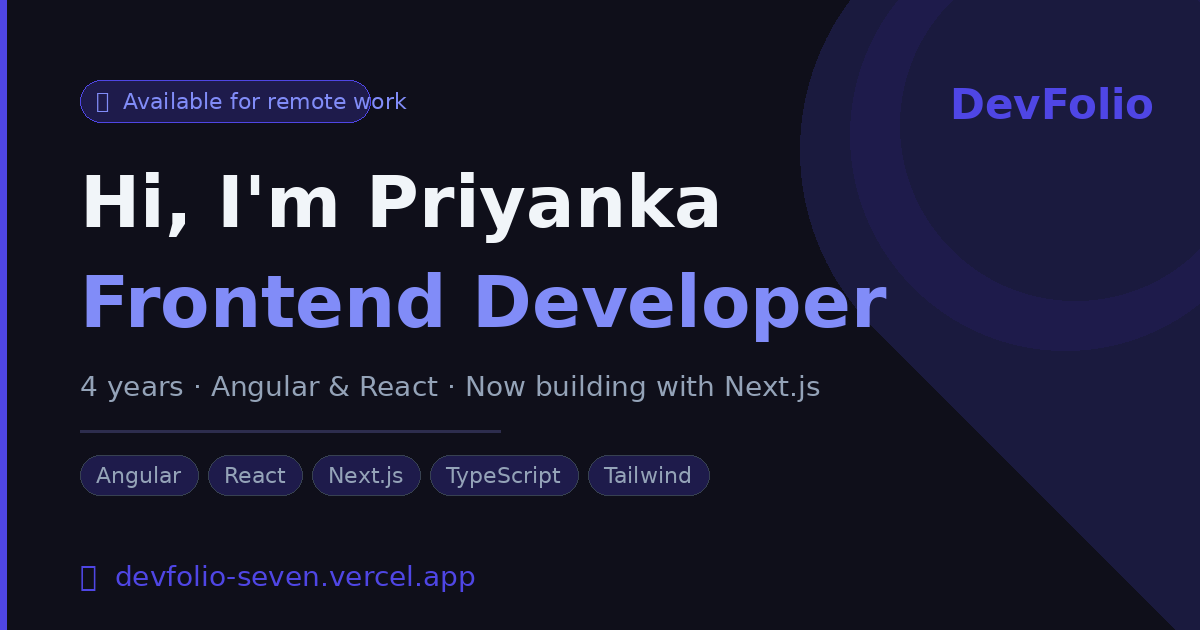
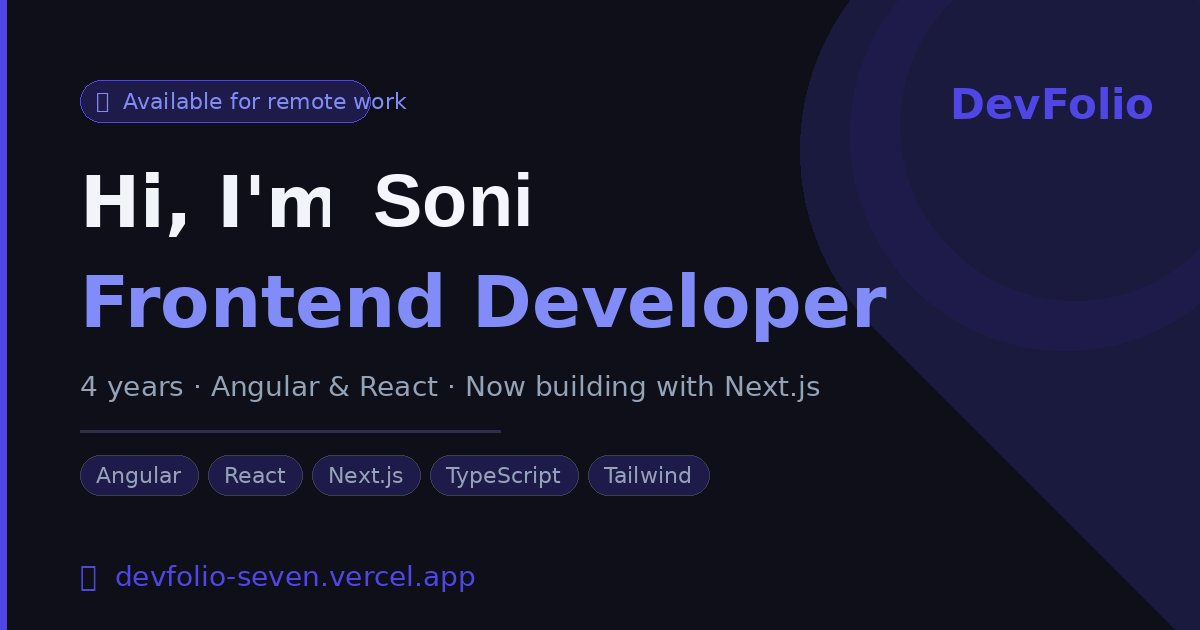
update info

diff --git a/app/data/info.ts b/app/data/info.ts
@@ -1,6 +1,6 @@
 // Your personal info — update this with your real details!
 export const info = {
-  name: 'Priyanka', // ← change this
+  name: 'Soni', // ← change this
   title: 'Frontend Developer', // ← change this
   bio: '4 years building web apps with Angular & React. Now crafting fast, modern UIs with Next.js.',
   available: true, // shows the "available" badge
@@ -8,8 +8,8 @@ export const info = {
     'Angular', 'React', 'Next.js',
     'TypeScript', 'Tailwind CSS', 'Node.js',
   ],
-  github: 'https://github.com/YOUR_USERNAME',
-  linkedin: 'https://linkedin.com/in/YOUR_PROFILE',
+  github: 'https://github.com/soni-k143',
+  linkedin: 'https://www.linkedin.com/in/soni-kumari-webhub',
 };
 
 // Export the type so other files can use it